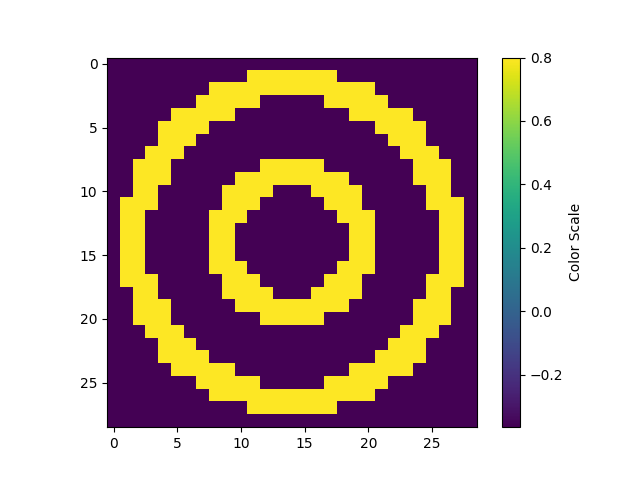
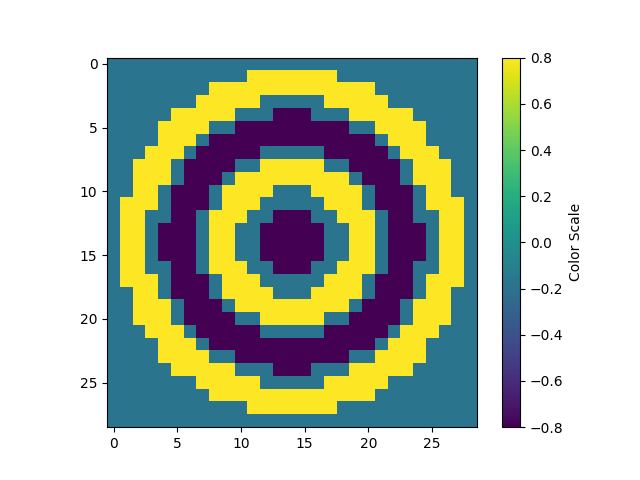
CNN+XYP on spinnaker together

diff --git a/convolution/rc_scnn_tracker.py b/convolution/rc_scnn_tracker.py
@@ -126,6 +126,7 @@ def make_whole_kernel(k_sz, hs, w_scaler, thickness):
 
     # Radius of pattern edges (target)
     pos_radi = np.array([20,9])*hs
+    neg_radi = np.array([2,3,14,15])*hs
 
     # pos_w is given by the w_scaler
     pos_w = w_scaler
@@ -134,11 +135,14 @@ def make_whole_kernel(k_sz, hs, w_scaler, thickness):
     kernel = np.zeros((k_sz, k_sz), dtype=np.float32)
     for r in pos_radi:
         for i in np.arange(r-thickness+1, r+1):
-            make_kernel_circle(i, k_sz, pos_w, kernel) # 38px
+            make_kernel_circle(i, k_sz, pos_w, kernel)
+    for r in neg_radi:
+        for i in np.arange(r-thickness+1, r+1):
+            make_kernel_circle(i, k_sz, -pos_w, kernel)
 
     # Check positive values so as to compensate for them
     total_positive = np.sum(kernel)
-    count_positive = np.sum(kernel > 0)
+    count_positive = np.sum(kernel != 0)
 
     # neg_w is estimated to compensate for pos_w
     neg_w = -total_positive/((k_sz*k_sz)-count_positive)
@@ -147,7 +151,10 @@ def make_whole_kernel(k_sz, hs, w_scaler, thickness):
     kernel = neg_w*np.ones((k_sz, k_sz), dtype=np.float32)
     for r in pos_radi:
         for i in np.arange(r-thickness+1, r+1):
-            make_kernel_circle(i, k_sz, pos_w, kernel) # 38px
+            make_kernel_circle(i, k_sz, pos_w, kernel) 
+    for r in neg_radi:
+        for i in np.arange(r-thickness+1, r+1):
+            make_kernel_circle(i, k_sz, -pos_w, kernel)
             
 
 
@@ -182,7 +189,7 @@ def parse_args():
     parser.add_argument('-ip', '--ip', type= str, help="IP out", default="172.16.222.199")
     parser.add_argument('-ks', '--ks', type=int, help="Kernel Size", default=45)
     parser.add_argument('-b', '--board', type=int, help="Board ID", default=1)
-    parser.add_argument('-ws', '--w-scaler', type=float, help="Weight Scaler", default=0.80)
+    parser.add_argument('-ws', '--w-scaler', type=float, help="Weight Scaler", default=0.80) # 0.5 xyp | 0.8 cnn
     parser.add_argument('-tm', '--tau-m', type=float, help="Tau m", default=3.0)
     parser.add_argument('-th', '--thickness', type=int, help="Kernel edge thickness", default=2)
     parser.add_argument('-rt', '--runtime', type=int, help="Runtime in [s]", default=240)
@@ -192,10 +199,13 @@ def parse_args():
 if __name__ == '__main__':
 
     args = parse_args()
-    if args.mode == "cnn":
-        showing_cnn = True 
+    if args.mode == "xyp":
+        full_cnn_xy = True 
+    elif args.mode == "cnn":
+        full_cnn_xy = False 
     else:
-        showing_cnn = False 
+        print("Wrong Mode")
+        quit()
     
 
     dim = Dimensions.load_from_file('../common/homdim.pkl')
@@ -316,30 +326,30 @@ if __name__ == '__main__':
                             structure=p.Grid2D(OUT_WIDTH / OUT_HEIGHT), label=CNN_POP_LABEL)
 
 
-    # Setting XY Projection Layer
-    xyp_pop = p.Population(OUT_WIDTH + OUT_HEIGHT, celltype(**cell_params), label=XYP_POP_LABEL)
-    # conn_list = create_conn_list(OUT_WIDTH, OUT_HEIGHT)
-    conn_list = create_inner_conn_list(OUT_WIDTH, OUT_HEIGHT, NPC_X, NPC_Y)
-    cell_conn = p.FromListConnector(conn_list, safe=True)     
-
-    
-    # Projections
+    # Projection from SPIF virtual to CNN population
     p.Projection(p_spif_virtual, cnn_pop, convolution, p.Convolution())
-    p.Projection(cnn_pop, xyp_pop, cell_conn, receptor_type='excitatory')
+
+    # Adding XY population
+    if full_cnn_xy:
+        # Setting XY Projection Layer
+        xyp_pop = p.Population(OUT_WIDTH + OUT_HEIGHT, celltype(**cell_params), label=XYP_POP_LABEL)
+        conn_list = create_inner_conn_list(OUT_WIDTH, OUT_HEIGHT, NPC_X, NPC_Y)
+        cell_conn = p.FromListConnector(conn_list, safe=True) 
+        p.Projection(cnn_pop, xyp_pop, cell_conn, receptor_type='excitatory')
 
     # Setting up SPIF Output
-    if showing_cnn:
-        conn_cnn = p.external_devices.SPIFLiveSpikesConnection([CNN_POP_LABEL], SPIF_IP_A, SPIF_PORT)
-        conn_cnn.add_receive_callback(CNN_POP_LABEL, recv_nid)
-        spif_cnn_output = p.Population(None, p.external_devices.SPIFOutputDevice(
-            database_notify_port_num=conn_cnn.local_port, chip_coords=CHIP), label="cnn_output")
-        p.external_devices.activate_live_output_to(cnn_pop, spif_cnn_output)
-    else:
+    if full_cnn_xy:
         conn_xyp = p.external_devices.SPIFLiveSpikesConnection([XYP_POP_LABEL], SPIF_IP_A, SPIF_PORT)
         conn_xyp.add_receive_callback(XYP_POP_LABEL, recv_nid_rc)
         spif_xyp_output = p.Population(None, p.external_devices.SPIFOutputDevice(
             database_notify_port_num=conn_xyp.local_port, chip_coords=CHIP), label="xyp_output")
         p.external_devices.activate_live_output_to(xyp_pop, spif_xyp_output)
+    else:
+        conn_cnn = p.external_devices.SPIFLiveSpikesConnection([CNN_POP_LABEL], SPIF_IP_A, SPIF_PORT)
+        conn_cnn.add_receive_callback(CNN_POP_LABEL, recv_nid)
+        spif_cnn_output = p.Population(None, p.external_devices.SPIFOutputDevice(
+            database_notify_port_num=conn_cnn.local_port, chip_coords=CHIP), label="cnn_output")
+        p.external_devices.activate_live_output_to(cnn_pop, spif_cnn_output)
 
 
     try:
